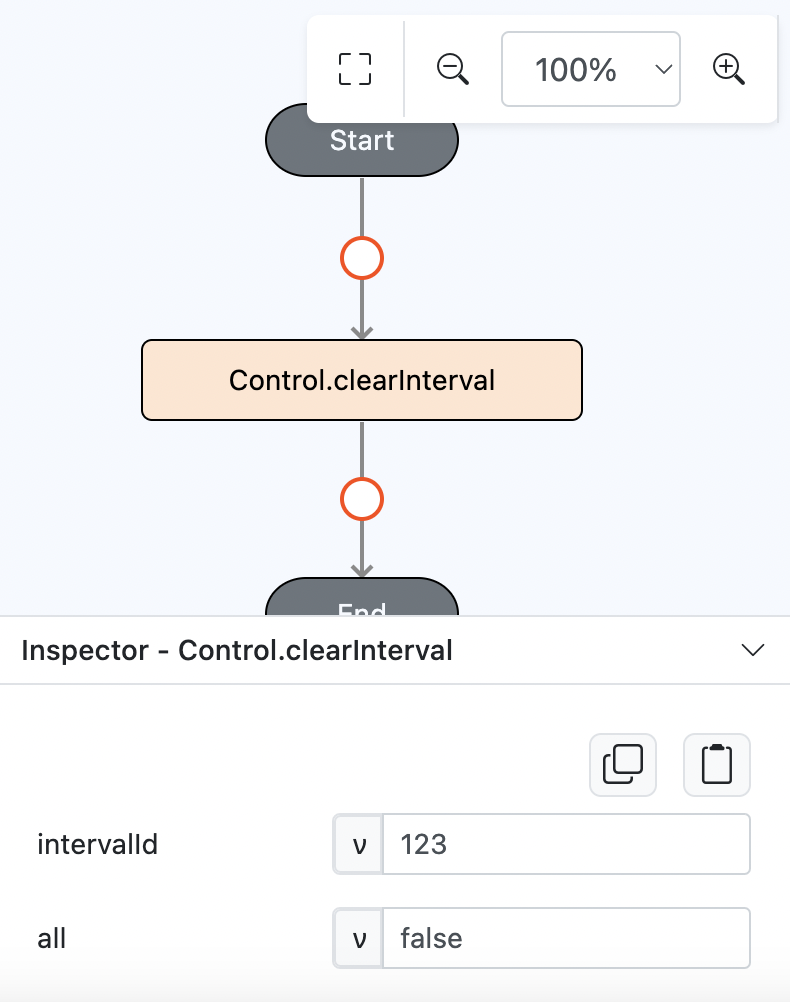
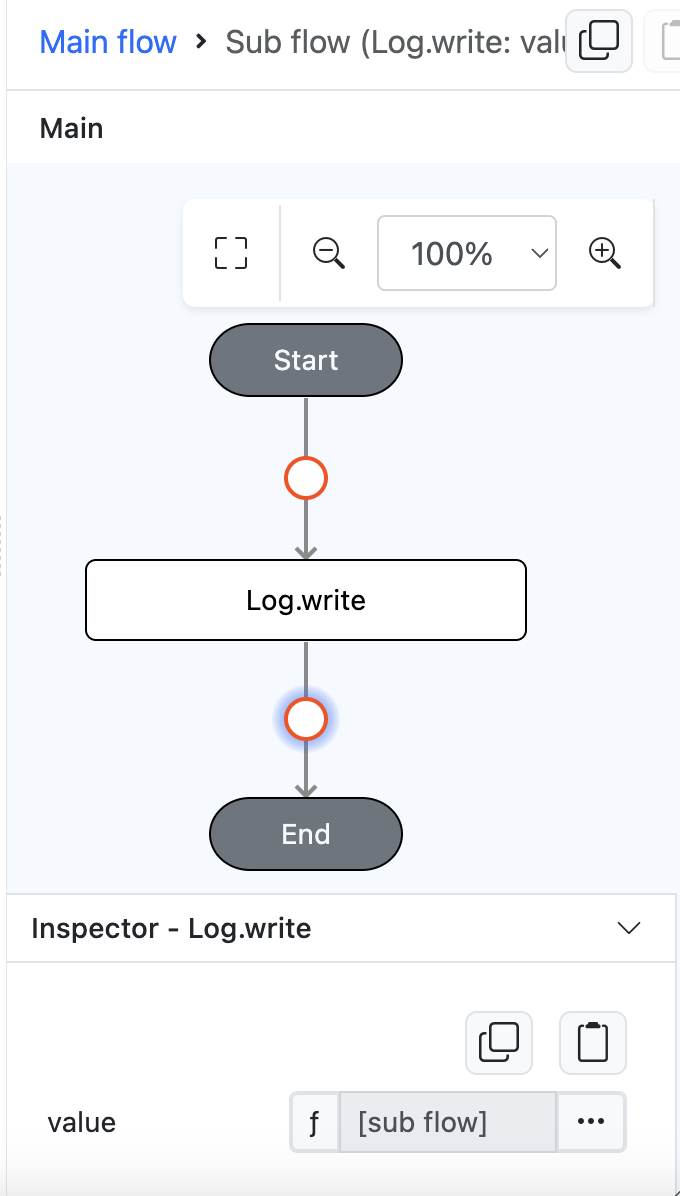
EP-1356-Added log write to clearInterval function

diff --git a/document/client/006-actions-and-visual-logic/action-reference/react-native/Control/clearInterval/clearInterval.md b/document/client/006-actions-and-visual-logic/action-reference/react-native/Control/clearInterval/clearInterval.md
@@ -6,10 +6,14 @@ Clears existing interval(s).
 
 ## Input / Parameter
 
-| Name | Description | Input Type | Default | Options | Required |
-| ------ | ------ | ------ | ------ | ------ | ------ |
-| intervalId | The id of the interval to clear. | Boolean | - | - | Yes |
-| all | To clear all intervals or not (only for interval with persistent equals false) | Boolean | false | - | No |
+| Name       | Description                                                                    | Input Type | Default | Options | Required |
+| ---------- | ------------------------------------------------------------------------------ | ---------- | ------- | ------- | -------- | 
+| intervalId | The id of the interval to clear.                                               | Boolean    | -       | -       | Yes      |
+| all        | To clear all intervals or not (only for interval with persistent equals false) | Boolean    | false   | -       | No       |
+
+## Example
+
+In this example, we will clearInterval by interval id.
 
 ### Steps
 
@@ -20,13 +24,25 @@ Clears existing interval(s).
         style="width: 100%; padding: 5px;"/>
     </div>
 
-2. Call the function `Control.clearInterval`. Enter the parameters of the `Control.clearInterval` function.
-
+2. Put a `Log.write` function inside the event flow and change the param type to function.
+   
     <div style="display:flex; align-items:center; justify-content:center; background-color: #E7F1FF;">
         <img src="./clearInterval-step-2.png"
         style="width: 100%; padding: 5px;"/>
     </div>
 
+3. Put function `Control.clearInterval` inside `Log.write` function. Enter the parameters of the `Control.clearInterval` function.
+
+    <div style="display:flex; align-items:center; justify-content:center; background-color: #E7F1FF;">
+        <img src="./clearInterval-step-3.png"
+        style="width: 100%; padding: 5px;"/>
+    </div>
+
 ### Result
 
-1. The function will clear all interval that has false as persistent value.
+1. The function will clear interval that has '123' as the id and this example will return true upon clearing.
+   
+    <div style="display:flex; align-items:center; justify-content:center; background-color: #E7F1FF;">
+        <img src="./clearInterval-result.png"
+        style="width: 100%; padding: 5px;"/>
+    </div>
